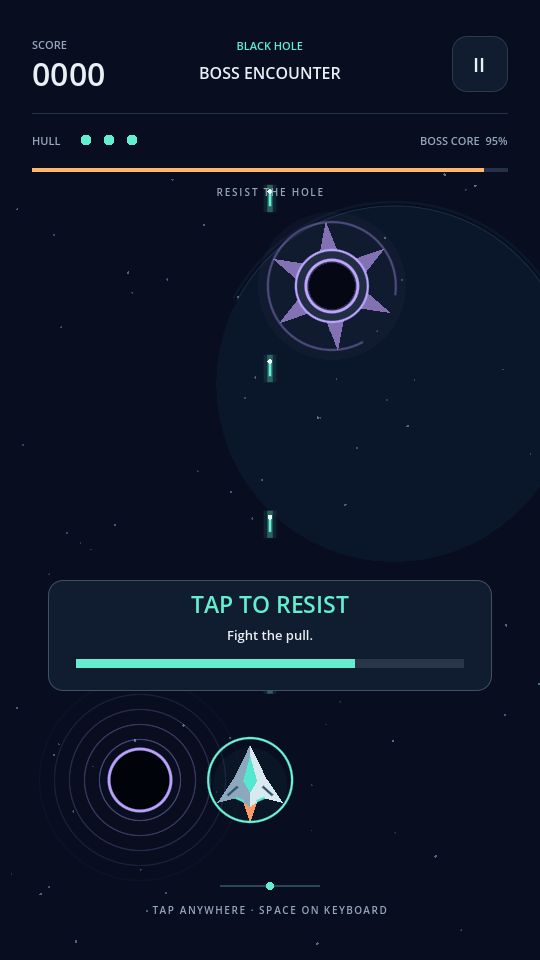
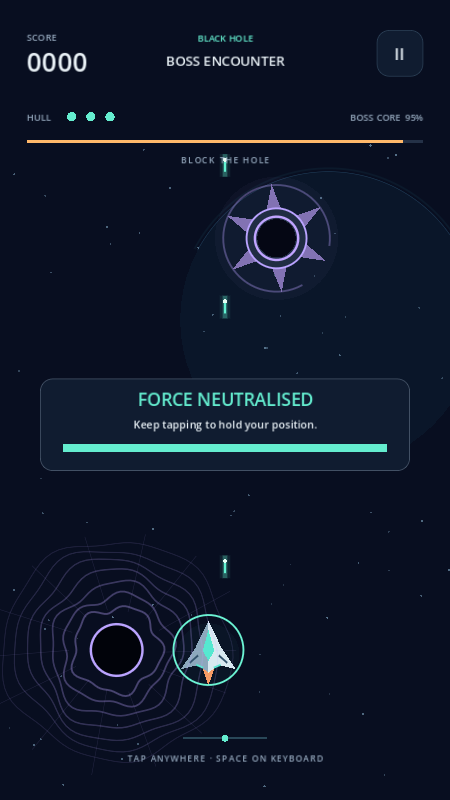
Add space-fold ripples to hole bosses

diff --git a/README.md b/README.md
@@ -42,6 +42,8 @@ Each tap fully cancels a hole's force for a brief beat. Keep tapping to hold the
 Each boss shoots aimed volleys during normal combat and uses its own special after a random interval, with a visible warning. The fleet encounter has 15 enemies and three lives.
 
 ![A boss exchanging fire with the player](docs/screenshots/firefight.png)
+![Black-hole space folds collapsing inward](docs/screenshots/black.png)
+![White-hole space folds expanding outward](docs/screenshots/white.png)
 
 The game includes pause on focus loss, hit effects, synthesized sound, and a separate local best score for each encounter. There are no accounts, ads, analytics, or network requests in the game.
 
